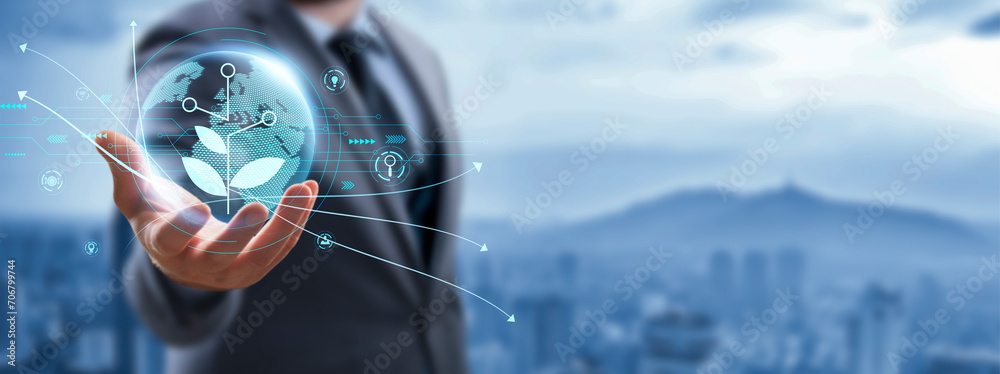
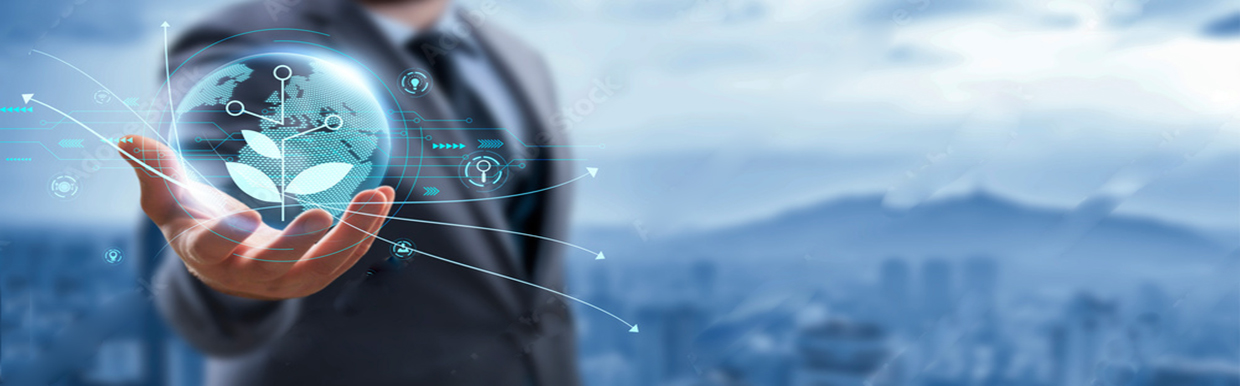
content for agri,health,defence and header images dimensions are not suites

diff --git a/agriculture.html b/agriculture.html
@@ -11,13 +11,13 @@ header_image: "/assets/images/art/agh.jpeg"
 
 about_us:
   enable: true
-  title: "About AGRICULTURE"
+  title: "About Smart Roads"
   sub_title: "We believe what sets us apart are these three factors"
   paragraphs:
     - text: |
-        Nullam quis risus eget urna mollis ornare vel eu leo. Cum sociis natoque penatibus et magnis dis parturient montes, nascetur ridiculus mus. Aenean eu leo quam. Pellentesque ornare sem lacinia quam venenatis vestibulum. Aenean lacinia bibendum nulla sed consectetur.
+        At the core of our distinctiveness are three pivotal factors that unequivocally set us apart in the business landscape. Firstly, our commitment to Patent Driven Agreements underscores our dedication to innovation and safeguarding intellectual property, ensuring a foundation of trust and uniqueness in our collaborations. Secondly, we thrive on the forefront of progress with Cutting Edge Technologies, leveraging the latest advancements to drive efficiency, creativity, and unmatched quality in our offerings. Lastly, our seamless integration of Hardware and Software exemplifies a holistic approach, providing comprehensive solutions that not only meet but exceed the evolving needs of our clients. Together, these factors form the cornerstone of our identity, positioning us as a trailblazer in delivering unparalleled value and excellence.
     - text: |
-        Cras mattis consectetur purus sit amet fermentum. Maecenas sed diam eget risus varius blandit sit amet non magna. Cras justo odio, dapibus ac facilisis in, egestas eget quam. Nullam id dolor id nibh.
+        we propel ourselves to the forefront of progress through Cutting Edge Technologies, actively leveraging the latest advancements to drive efficiency, kindle creativity, and maintain an unparalleled standard of quality in our products and services. This dynamic embrace of innovation positions us as pioneers in the industry, allowing us not only to meet but to anticipate and exceed the ever-evolving demands of the market. Together, these two pillars form the cornerstone of our identity, defining us as trailblazers committed to delivering unparalleled value and excellence in every aspect of our business endeavors.
   image: "/assets/images/art/aga.png"
   projects_number: 450
   projects_tag: "Completed Projects"
@@ -25,13 +25,13 @@ about_us:
     enable: true
     services:
       - title: "Patent Driven Agreements"
-        description: "Cum sociis natoque penatibus et magnis dis parturient montes nascetur. Maecenas faucibus mollis."
+        description: "Explore the future with our cutting-edge technologies, shaping innovation and transforming possibilities."
 
       - title: "Cutting Edge Technologies"
-        description: "Aenean lacinia bibendum nulla sed consectetur. Nulla vitae elit libero. Etiam porta sem malesuada augue."
+        description: "Explore the future with our cutting-edge technologies, shaping innovation and transforming possibilities."
 
       - title: "Hardware and Software"
-        description: "Pellentesque ornare sem lacinia quam venenatis vestibulum. Integer posuere. Sed posuere consectetur."
+        description: "Empower businesses with advanced tech for seamless efficiency and top-notch performance."
   button_text: "More Details"
   button_url: "#"
 

diff --git a/defence.html b/defence.html
@@ -11,13 +11,13 @@ header_image: "/assets/images/art/dh.png"
 
 about_us:
   enable: true
-  title: "About Defence"
+  title: "About Smart Roads"
   sub_title: "We believe what sets us apart are these three factors"
   paragraphs:
     - text: |
-        Nullam quis risus eget urna mollis ornare vel eu leo. Cum sociis natoque penatibus et magnis dis parturient montes, nascetur ridiculus mus. Aenean eu leo quam. Pellentesque ornare sem lacinia quam venenatis vestibulum. Aenean lacinia bibendum nulla sed consectetur.
+        At the core of our distinctiveness are three pivotal factors that unequivocally set us apart in the business landscape. Firstly, our commitment to Patent Driven Agreements underscores our dedication to innovation and safeguarding intellectual property, ensuring a foundation of trust and uniqueness in our collaborations. Secondly, we thrive on the forefront of progress with Cutting Edge Technologies, leveraging the latest advancements to drive efficiency, creativity, and unmatched quality in our offerings. Lastly, our seamless integration of Hardware and Software exemplifies a holistic approach, providing comprehensive solutions that not only meet but exceed the evolving needs of our clients. Together, these factors form the cornerstone of our identity, positioning us as a trailblazer in delivering unparalleled value and excellence.
     - text: |
-        Cras mattis consectetur purus sit amet fermentum. Maecenas sed diam eget risus varius blandit sit amet non magna. Cras justo odio, dapibus ac facilisis in, egestas eget quam. Nullam id dolor id nibh.
+        we propel ourselves to the forefront of progress through Cutting Edge Technologies, actively leveraging the latest advancements to drive efficiency, kindle creativity, and maintain an unparalleled standard of quality in our products and services. This dynamic embrace of innovation positions us as pioneers in the industry, allowing us not only to meet but to anticipate and exceed the ever-evolving demands of the market. Together, these two pillars form the cornerstone of our identity, defining us as trailblazers committed to delivering unparalleled value and excellence in every aspect of our business endeavors.
   image: "/assets/images/art/di.png"
   projects_number: 450
   projects_tag: "Completed Projects"
@@ -25,13 +25,13 @@ about_us:
     enable: true
     services:
       - title: "Patent Driven Agreements"
-        description: "Cum sociis natoque penatibus et magnis dis parturient montes nascetur. Maecenas faucibus mollis."
+        description: "Explore the future with our cutting-edge technologies, shaping innovation and transforming possibilities."
 
       - title: "Cutting Edge Technologies"
-        description: "Aenean lacinia bibendum nulla sed consectetur. Nulla vitae elit libero. Etiam porta sem malesuada augue."
+        description: "Explore the future with our cutting-edge technologies, shaping innovation and transforming possibilities."
 
       - title: "Hardware and Software"
-        description: "Pellentesque ornare sem lacinia quam venenatis vestibulum. Integer posuere. Sed posuere consectetur."
+        description: "Empower businesses with advanced tech for seamless efficiency and top-notch performance."
   button_text: "More Details"
   button_url: "#"
 

diff --git a/health.html b/health.html
@@ -11,13 +11,13 @@ header_image: "/assets/images/art/hh.jpeg"
 
 about_us:
   enable: true
-  title: "About Health"
+  title: "About Smart Roads"
   sub_title: "We believe what sets us apart are these three factors"
   paragraphs:
     - text: |
-        Nullam quis risus eget urna mollis ornare vel eu leo. Cum sociis natoque penatibus et magnis dis parturient montes, nascetur ridiculus mus. Aenean eu leo quam. Pellentesque ornare sem lacinia quam venenatis vestibulum. Aenean lacinia bibendum nulla sed consectetur.
+        At the core of our distinctiveness are three pivotal factors that unequivocally set us apart in the business landscape. Firstly, our commitment to Patent Driven Agreements underscores our dedication to innovation and safeguarding intellectual property, ensuring a foundation of trust and uniqueness in our collaborations. Secondly, we thrive on the forefront of progress with Cutting Edge Technologies, leveraging the latest advancements to drive efficiency, creativity, and unmatched quality in our offerings. Lastly, our seamless integration of Hardware and Software exemplifies a holistic approach, providing comprehensive solutions that not only meet but exceed the evolving needs of our clients. Together, these factors form the cornerstone of our identity, positioning us as a trailblazer in delivering unparalleled value and excellence.
     - text: |
-        Cras mattis consectetur purus sit amet fermentum. Maecenas sed diam eget risus varius blandit sit amet non magna. Cras justo odio, dapibus ac facilisis in, egestas eget quam. Nullam id dolor id nibh.
+        we propel ourselves to the forefront of progress through Cutting Edge Technologies, actively leveraging the latest advancements to drive efficiency, kindle creativity, and maintain an unparalleled standard of quality in our products and services. This dynamic embrace of innovation positions us as pioneers in the industry, allowing us not only to meet but to anticipate and exceed the ever-evolving demands of the market. Together, these two pillars form the cornerstone of our identity, defining us as trailblazers committed to delivering unparalleled value and excellence in every aspect of our business endeavors.
   image: "/assets/images/art/ha.png"
   projects_number: 450
   projects_tag: "Completed Projects"
@@ -25,13 +25,13 @@ about_us:
     enable: true
     services:
       - title: "Patent Driven Agreements"
-        description: "Cum sociis natoque penatibus et magnis dis parturient montes nascetur. Maecenas faucibus mollis."
+        description: "Explore the future with our cutting-edge technologies, shaping innovation and transforming possibilities."
 
       - title: "Cutting Edge Technologies"
-        description: "Aenean lacinia bibendum nulla sed consectetur. Nulla vitae elit libero. Etiam porta sem malesuada augue."
+        description: "Explore the future with our cutting-edge technologies, shaping innovation and transforming possibilities."
 
       - title: "Hardware and Software"
-        description: "Pellentesque ornare sem lacinia quam venenatis vestibulum. Integer posuere. Sed posuere consectetur."
+        description: "Empower businesses with advanced tech for seamless efficiency and top-notch performance."
   button_text: "More Details"
   button_url: "#"
 
